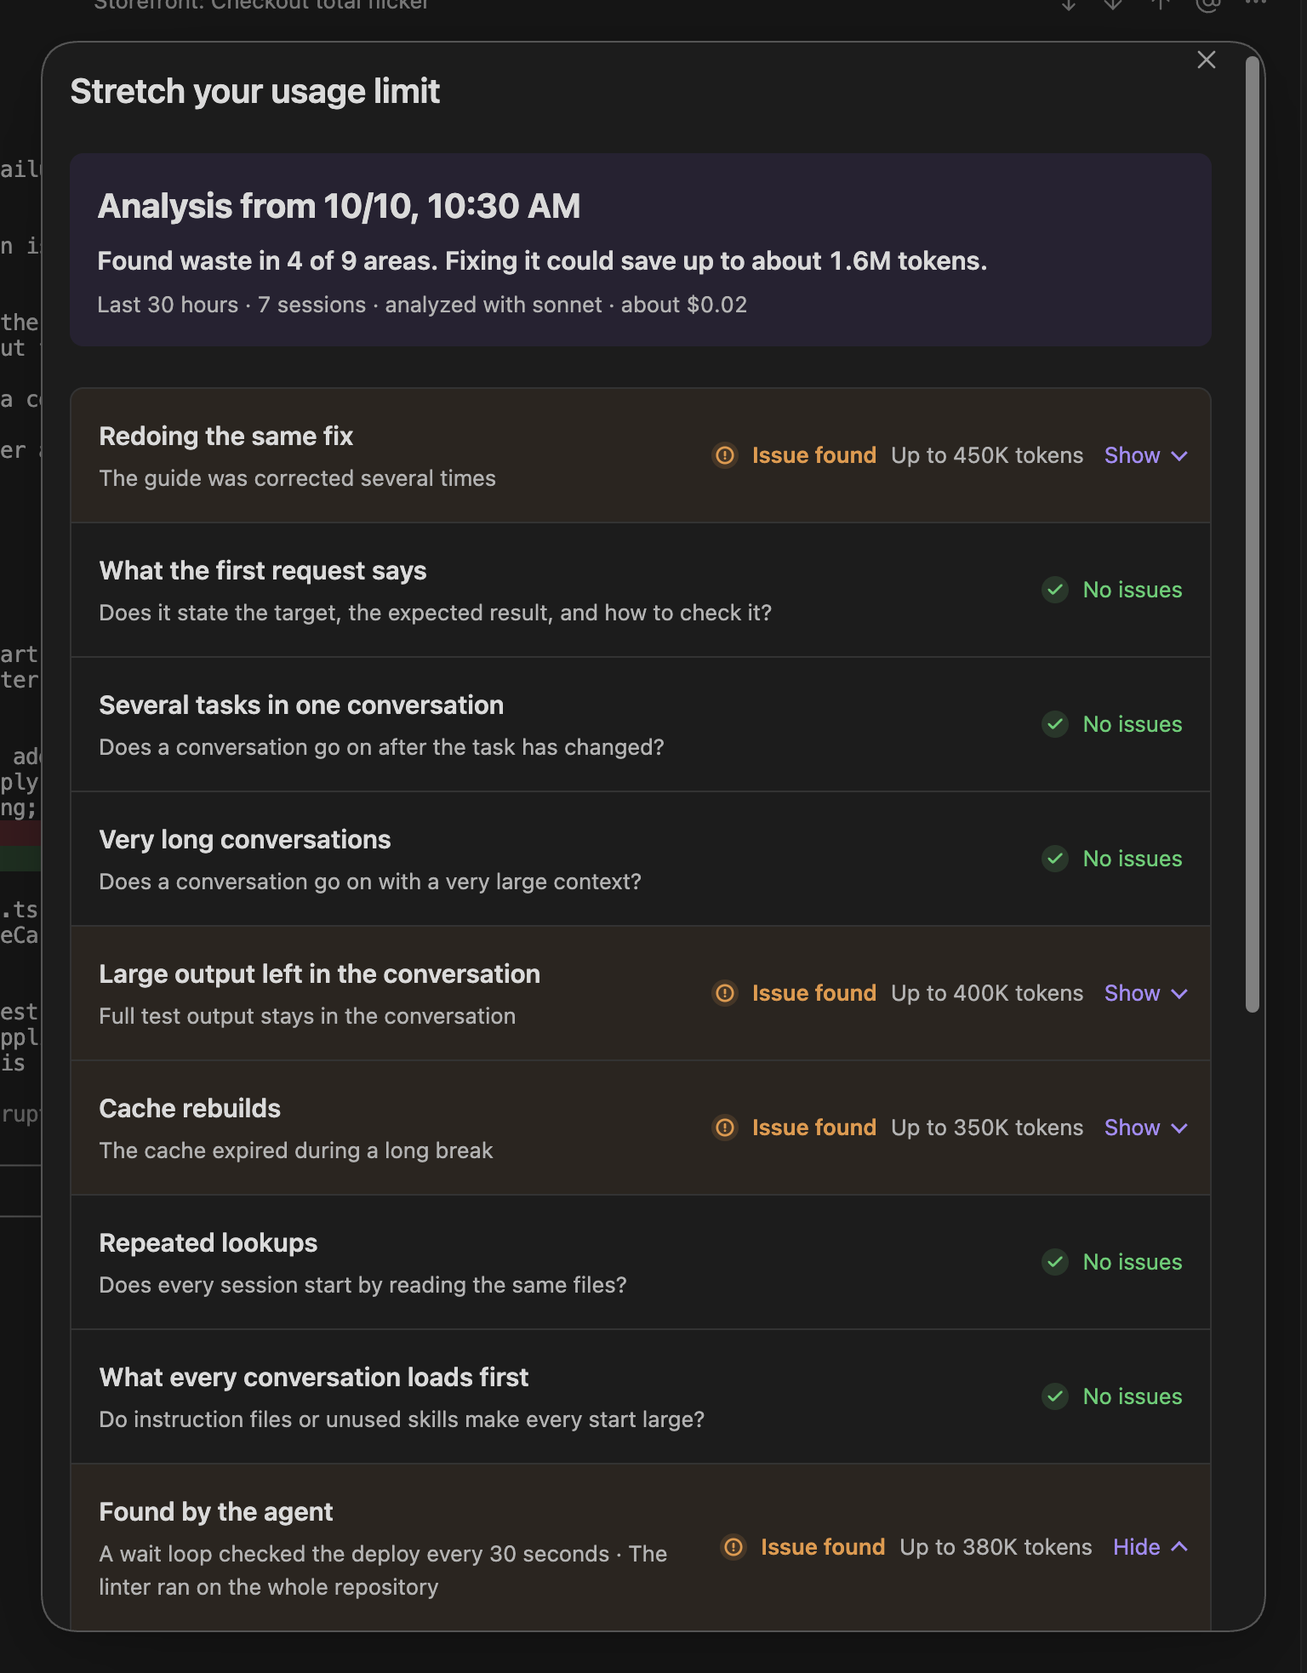
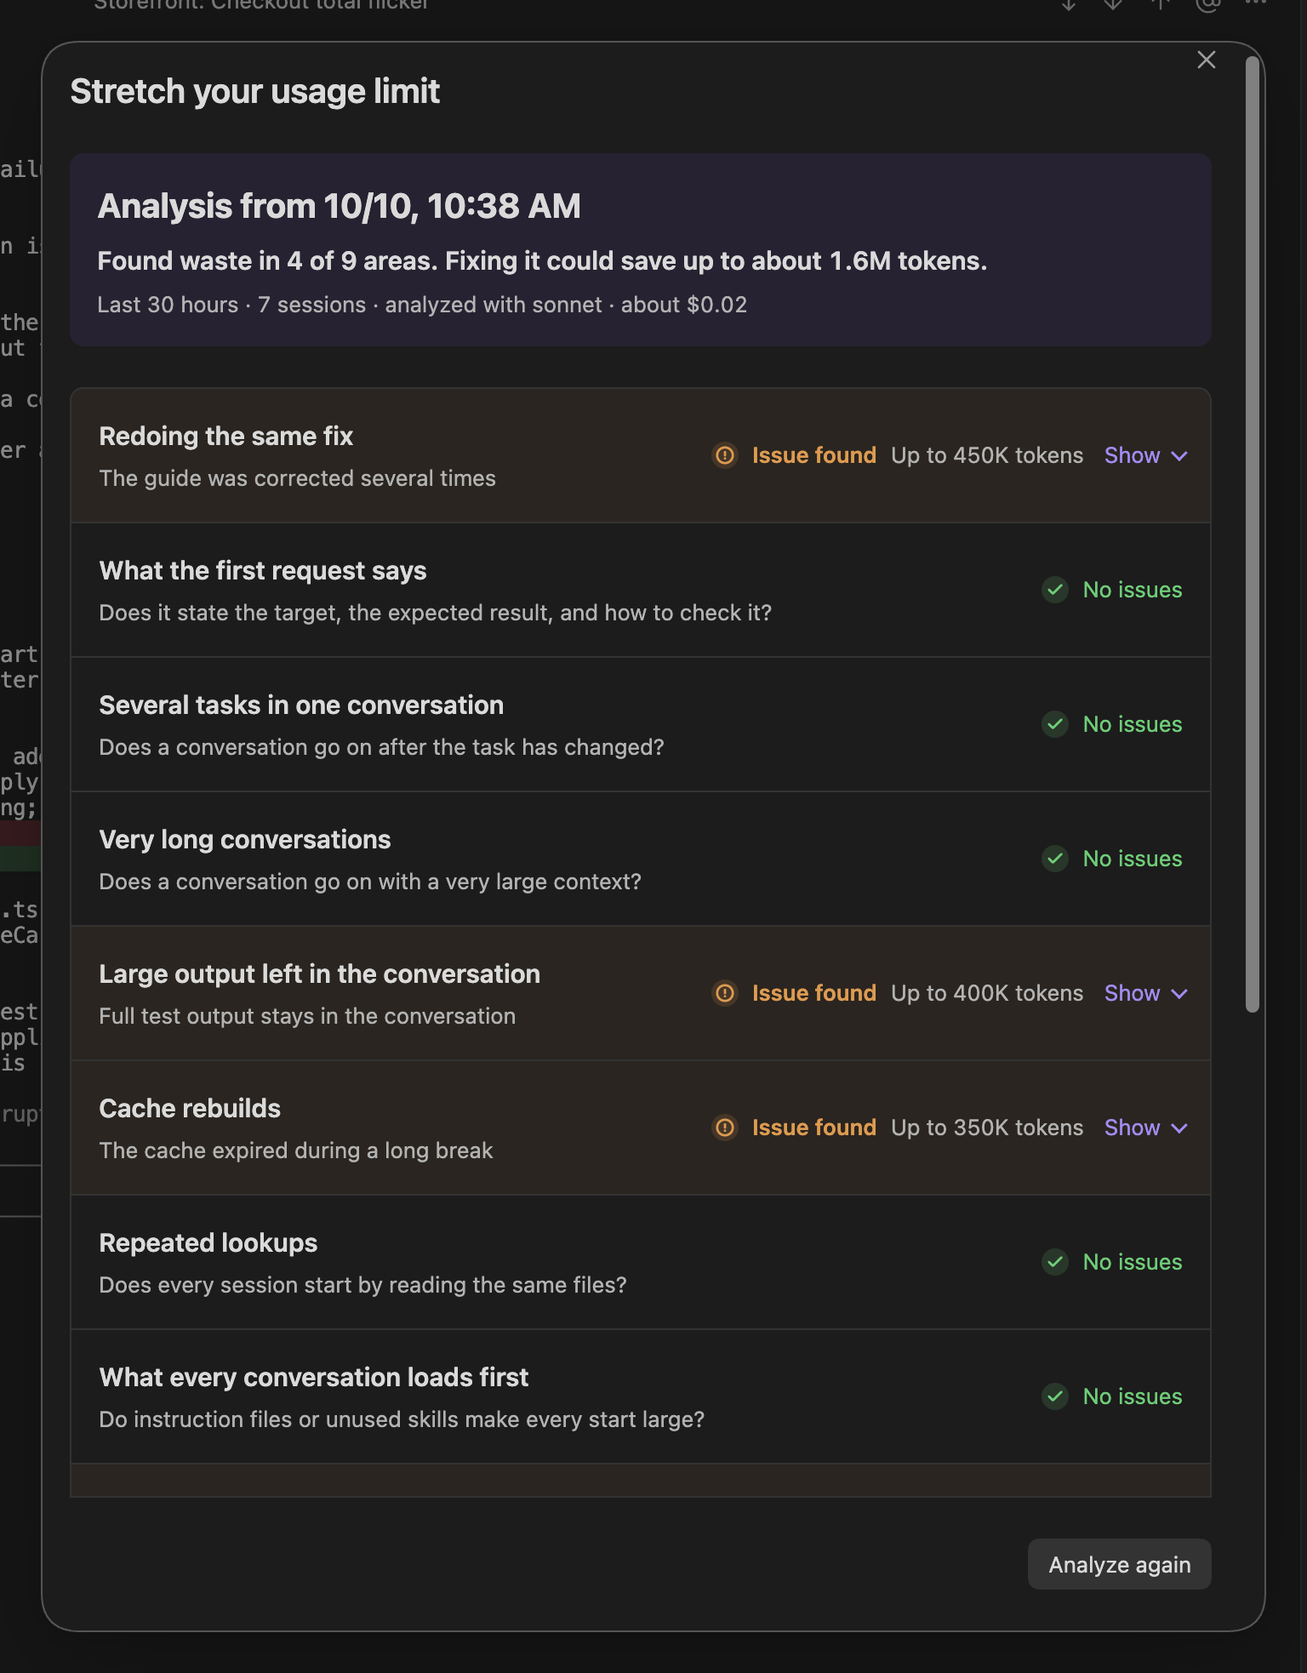
Keep the analysis buttons in view in a pinned foot
Every screen of the "Stretch your usage limit" dialog ends in a foot
pinned to the bottom of the dialog: a note on the left and the screen's
one button on the right (Analyze with its estimate, Stop analysis,
Analyze again). It covers the modal's bottom padding with the modal's
background and keeps its divider, so the rows scroll under it and the
button never falls below the fold. Details now sits above the foot.
The screenshot tool also shoots the empty and the analysing screen in a
narrow window.

Claude-Session: https://claude.ai/code/session_01TTRFsyBXjNS4ZGqFbyUZrn

Changed region(s): [[0.0625, 0.8998, 0.3438, 0.9619], [0.5312, 0.8998, 0.8125, 0.9308], [0.8125, 0.9308, 0.9062, 0.9619]]

diff --git a/plugin/styles.css b/plugin/styles.css
@@ -4349,21 +4349,6 @@ button.agent-sessions-efficiency-disc-head:focus-visible {
 	gap: var(--size-4-2);
 }
 
-/* The one action of the empty screen. */
-.agent-sessions-efficiency-go {
-	display: flex;
-	flex-direction: column;
-	align-items: center;
-	gap: var(--size-4-3);
-	padding-block: var(--size-4-2);
-}
-
-.agent-sessions-efficiency-go > button.mod-cta {
-	height: auto;
-	padding: var(--size-4-3) var(--size-4-8);
-	font-size: var(--font-ui-medium);
-}
-
 /* Progress while analysing. */
 .agent-sessions-efficiency-prog {
 	display: flex;
@@ -4486,15 +4471,22 @@ button.agent-sessions-efficiency-disc-head:focus-visible {
 	font-size: var(--font-ui-smaller);
 }
 
-/* The bottom line: a note on the left, one button on the right. */
+/* The bottom line of every screen: a note on the left, its one button on the right (Analyze, Stop
+   analysis, Analyze again). It is pinned to the bottom of the dialog, over the modal's own bottom
+   padding, so the button is always in view and the rows scroll under it. */
 .agent-sessions-efficiency-foot {
+	position: sticky;
+	bottom: calc(-1 * var(--size-4-6));
+	z-index: 1;
 	display: flex;
 	flex-wrap: wrap;
 	align-items: center;
 	justify-content: space-between;
 	gap: var(--size-4-3);
-	padding-top: var(--size-4-6);
+	margin-bottom: calc(-1 * var(--size-4-6));
+	padding-block: var(--size-4-6);
 	border-top: 1px solid var(--background-modifier-border);
+	background-color: var(--modal-background, var(--background-primary));
 }
 
 .agent-sessions-efficiency-foot.is-end {

diff --git a/plugin/src/ui/efficiency-modal.ts b/plugin/src/ui/efficiency-modal.ts
@@ -363,11 +363,6 @@ export class EfficiencyModal extends Modal {
 		if (!hasData(block)) {
 			return;
 		}
-		const go = pane.el.createDiv({ cls: `${CLS}-go` });
-		const analyze = go.createEl("button", { cls: "mod-cta", text: t("efficiency.analyze") });
-		analyze.disabled = !pane.plan || pane.plan.parts.length === 0;
-		analyze.addEventListener("click", () => void this.analyze(pane));
-		go.createDiv({ cls: `${CLS}-sub`, text: estimateText(pane.sent.requests) });
 		this.disclosure(pane, "details", t("efficiency.details"), t("efficiency.details.sub"), (body) => {
 			body.createDiv({ text: t("efficiency.details.lead") });
 			const local = pane.info.local;
@@ -402,6 +397,12 @@ export class EfficiencyModal extends Modal {
 				preview.createEl("pre", { text: prompts.join("\n\n----\n\n") });
 			}
 		});
+		// The action stays in view: the foot is pinned to the bottom of the dialog while the rows scroll.
+		const foot = pane.el.createDiv({ cls: `${CLS}-foot` });
+		foot.createDiv({ cls: `${CLS}-sub`, text: estimateText(pane.sent.requests) });
+		const analyze = foot.createEl("button", { cls: "mod-cta", text: t("efficiency.analyze") });
+		analyze.disabled = !pane.plan || pane.plan.parts.length === 0;
+		analyze.addEventListener("click", () => void this.analyze(pane));
 	}
 
 	// ---- Analyzing -------------------------------------------------------------------------------

diff --git a/docs/design.md b/docs/design.md
@@ -822,7 +822,7 @@ Has an agent read recent work for wasted tokens in nine checks, with evidence, a
 
 **Analysis** (`sessions/efficiency-checks.ts`, `ui/efficiency-modal.ts`). Only when the user presses Analyze in a pane. `planRequests` packs the digest's tasks, oldest first, into requests of at most 60,000 characters each (`analysisPrompt`: the checks' focus and English rules, the data between markers, the reply shape, the UI language for the text); a task too large on its own loses middle turns first. More than ten requests: prompts and replies are shortened (300 and 100 characters) and, if still more, the oldest tasks are left out ("Details" says how many). Each request carries `context`, the sessions and tasks of its period and the hints of those tasks (or sessions, for hints without a task), and is told which part of how many it is; the plugin's `ts` and `saving` are not sent. The requests go one after another on stdin to the pane's agent (`runHeadless`, five minutes each): `claude -p` with Sonnet or Opus, `codex exec -m <model>` (and `-c model_provider="…"` for a provider other than OpenAI), `opencode run --model <provider>/<model>`, in an empty folder, `~/.agents/sessions/efficiency-run/current/` (`inRunFolder`: created empty before the run, removed afterwards whatever happens, a second concurrent run refused; the fixed name leaves Claude Code a single empty project folder for it). A reply is `{"checks": {...}}`: per check `ok` or an `issue` (title, what happened, the cause `user_prompt`, `agent_behavior`, `config` or `habit`, the next step, `evidence` task ids, quotes, an action `agent`, `template` or `none`), and `found`, a list of up to three issues. A reply without a verdict for every judged check is asked for once more; when that one can't be read either, the analysis stops (`UnreadableReplyError`). Each issue is checked against its request (`readIssue`): evidence keeps only the ids of tasks sent in that request, and an issue left with none is dropped; quotes not copied from a prompt or reply of an evidence task are removed; sentences with a number that was not sent, and text that mentions `/clear`, are dropped, and an issue left with neither what happened nor a next step is dropped; an unknown cause becomes the check's own; an action the check does not offer becomes `none` (`agent` only when the check's `fix` hits in the evidence tasks name one change and its files, which the issue then keeps; `template` only for the two checks about requests). What an issue could save is the sum of its evidence tasks' `saving` for the check; anything the model writes about savings is ignored. The parts' outcomes are merged in code (`mergeOutcomes`), the same whatever order they finish in: a check has an issue when any part found one; its text is the issue that could save the most (the earlier part on a tie), its evidence and hits those of every part's issue, and its saving computed again over them; `found` keeps the three issues that could save the most. Stopping or a failure keeps nothing of the run. A finished run goes to `last-<pane>.json` (the earlier one to `prev-`, `version: 3`): per check its state and findings, the session of each cited task, the range, totals, session ids, the hits in the cited tasks, what was sent (tokens, sessions, requests) and the analysis's own usage (`headlessUsage`, summed over its requests); a file in another shape, including an earlier format, is not read.
 
-**The dialog** (`ui/efficiency-modal.ts`, `ui/efficiency-view.ts`). One tab per agent, named by the agent alone; for Codex and OpenCode the tab is the first pane (the provider used most) and the other panes are not shown. Per tab one of three screens: empty (the nine rows, the range covered, Analyze with an estimate of one to three minutes per request, and a folded "Details" with what is sent, how much and in how many requests, the model, the usage limit and the exact text of every request), analysing (every judged row "Analyzing", the not-applicable ones settled; one request: "Checking all 9 areas" with a moving bar; several: "Read M of N parts", the bar by parts, and a row turns to "Issue found" as soon as a part read so far found it; the elapsed time and the estimate; Stop), and result (the date, a summary, the rows, a folded "Data behind this analysis", the number of sessions started since, Analyze again) — the same screen for a fresh and a saved result. A row with an issue opens in place; the last row lists each of its issues with its own title and saving.
+**The dialog** (`ui/efficiency-modal.ts`, `ui/efficiency-view.ts`). One tab per agent, named by the agent alone; for Codex and OpenCode the tab is the first pane (the provider used most) and the other panes are not shown. Per tab one of three screens, each ending in a foot pinned to the bottom of the dialog (a note on the left, the screen's one button on the right; the rows scroll under it, so the button is always in view): empty (the range covered, the nine rows, a folded "Details" with what is sent, how much and in how many requests, the model, the usage limit and the exact text of every request, and the foot with an estimate of one to three minutes per request and Analyze), analysing (every judged row "Analyzing", the not-applicable ones settled; one request: "Checking all 9 areas" with a moving bar; several: "Read M of N parts", the bar by parts, and a row turns to "Issue found" as soon as a part read so far found it; the elapsed time and the estimate; Stop), and result (the date, a summary, the rows, a folded "Data behind this analysis", the number of sessions started since, Analyze again) — the same screen for a fresh and a saved result. A row with an issue opens in place; the last row lists each of its issues with its own title and saving.
 
 **Fixing.** An issue's "Ask the agent to fix it" shows the agent, the new session's name, the files and the request (editable), then calls `newSession(name, agent, {prompt, permissionMode: "plan", remember: false})`: a session in the vault, in plan mode or the agent's nearest (Claude Code `--permission-mode plan` before `--`; Codex `--sandbox read-only --ask-for-approval on-request` before `--`, since it has no flag to start in Plan mode; OpenCode `--agent plan` before `--prompt`), that shows a diff and waits for approval. OpenCode on Windows doesn't start with a first message over 200 characters on its command line (its TUI stays at "Finishing startup…" and exits), so there the message is pasted and submitted once its footer (`ctrl+p commands`) is on screen (`typesFirstMessage`, `opencodeReady`); if that doesn't happen within 90 seconds the message goes to the clipboard with a notice. The request's third step says how each agent goes on to write (Codex asks for approval; OpenCode needs a switch to the build agent). The request lists the files that may change, the change kind's rule, the prohibitions, how to undo, and that the change applies to new conversations.
 
@@ -915,7 +915,7 @@ Every dialog of the plugin is marked with `markDialog` (`ui/dialog-header.ts`, c
 | 16 px | `--size-4-4` | the inset of every bordered or tinted block (rows, disclosures, summaries, panels, cards), the gap between the parts of an opened block, the modal's own padding at the sides |
 | 24 px | `--size-4-6` | between the blocks of a dialog, the title above the content, each side of the divider above the button row, the modal's own padding above and below |
 
-The content (`.modal-content`, and each view of the organize dialog) is one column of blocks with a 24 px gap; the children's own margins are removed, so no gap is doubled. Fields (Obsidian `Setting` rows) have no dividers between them; a label beside its control is centred on it, and a label above its field (`agent-sessions-wide-setting`) sits 8 px above it. The button row that ends a dialog is made with `dialogFooter`: one divider above it, 24 px on each side. Corners of blocks are `--radius-m`. A dialog with its own header (Session analytics) uses the modal's padding as its inset and hides Obsidian's empty header, so no padding is added on top of the modal's. The token efficiency dialog keeps its scrollbar gutter (`scrollbar-gutter: stable`), every check row has a second line (the issues' titles, "Reading", or what the check looks for), so the rows are of one height, and below 480 px a row's state wraps under its text.
+The content (`.modal-content`, and each view of the organize dialog) is one column of blocks with a 24 px gap; the children's own margins are removed, so no gap is doubled. Fields (Obsidian `Setting` rows) have no dividers between them; a label beside its control is centred on it, and a label above its field (`agent-sessions-wide-setting`) sits 8 px above it. The button row that ends a dialog is made with `dialogFooter`: one divider above it, 24 px on each side. Corners of blocks are `--radius-m`. A dialog with its own header (Session analytics) uses the modal's padding as its inset and hides Obsidian's empty header, so no padding is added on top of the modal's. The token efficiency dialog keeps its scrollbar gutter (`scrollbar-gutter: stable`), pins its foot (`position: sticky`, over the modal's bottom padding, with the modal's background and the divider) so the screen's button never scrolls out of view, every check row has a second line (the issues' titles, "Reading", or what the check looks for), so the rows are of one height, and below 480 px a row's state wraps under its text.
 
 ## 17. i18n
 

diff --git a/docs/requirements.md b/docs/requirements.md
@@ -104,7 +104,7 @@ Agent CLIs other than Claude Code, Codex, and OpenCode (agy, …) are a future d
   - R-S17.23 Claude Code, Codex and OpenCode conversations are analysed alike: Codex and OpenCode split their conversations by provider and the dialog analyses the provider each used most (one tab per agent); detectors whose signal an agent does not record (E04 for OpenCode) do not run for it.
   - R-S17.22 No statistic depends on the words a person wrote: the same conversation in another language gives the same tasks, hits and impact. Only record formats the agents write and the masking patterns are matched.
 - R-S18 A dialog opened from a menu item, a command or a button is titled with that item's label, word for word — the same message in every language, so the two cannot differ. A trailing ellipsis on a menu item ("Move to category…") is not part of the title. A per-session dialog shows the session on a second line under the title. Several items that open one dialog share one label (the side panel's and the manager's `⋯` menus and the command palette all say "Stretch your usage limit…"). A confirmation raised by changing a control (a dropdown, a toggle) has no title, only its message. The welcome guide, which also opens by itself, is titled with its own name. A unit test (`plugin/test/ui/dialog-title.test.ts`) lists every such dialog and fails when a title is set from any other message.
-- R-S19 Every dialog spaces its content on one scale of Obsidian's spacing variables (4, 8, 12, 16, 24 px; `design.md` §16.2), with room to breathe vertically: 24 px above and below the content and between its blocks, 24 px on each side of the divider above the closing button row and none between fields, the title 8 px above the session line, a label 8 px above its field, 16 px inside every bordered or tinted block (rows, summaries, panels, cards) and between its parts, and no padding of the plugin's own added to the modal's. The "Stretch your usage limit" dialog keeps its width when its content starts to scroll, every check row has a second line (its issues' titles, "Reading", or what the check looks for) so the rows are of one height, and at about 400 px wide a row's state moves under its text instead of squeezing it.
+- R-S19 Every dialog spaces its content on one scale of Obsidian's spacing variables (4, 8, 12, 16, 24 px; `design.md` §16.2), with room to breathe vertically: 24 px above and below the content and between its blocks, 24 px on each side of the divider above the closing button row and none between fields, the title 8 px above the session line, a label 8 px above its field, 16 px inside every bordered or tinted block (rows, summaries, panels, cards) and between its parts, and no padding of the plugin's own added to the modal's. The "Stretch your usage limit" dialog keeps its width when its content starts to scroll, keeps each screen's button (Analyze, Stop analysis, Analyze again) in view in a bar pinned to its bottom while the rows scroll under it, every check row has a second line (its issues' titles, "Reading", or what the check looks for) so the rows are of one height, and at about 400 px wide a row's state moves under its text instead of squeezing it.
 
 ### R-D Persistence and restore
 

diff --git a/tools/screenshots/README.md b/tools/screenshots/README.md
@@ -41,7 +41,7 @@ SCRATCH=$(mktemp -d)
 node tools/screenshots/shoot.mjs --plugin-js $SCRATCH/main.js   # add --keep to leave the sandbox behind
 ```
 
-`--efficiency` shoots only the token efficiency dialog, in the dark and the light theme: `efficiency-empty-<theme>.png` (not analysed yet), `efficiency-analyzing-<theme>.png` (one request, every check being analysed), `efficiency-result-<theme>.png` (the result just made, the agent's own issues open), `efficiency-previous-<theme>.png` (the saved result opened again a day later) `efficiency-analyzing-split-<theme>.png` (a larger range sent in several requests, after the first one is read), `efficiency-issue-<theme>.png` (the first issue open), `efficiency-basis-<theme>.png` (the data behind the analysis open), `efficiency-fix-<theme>.png` (the dialog before a fixing session) and `efficiency-narrow-<theme>.png` (a window about 440 px wide). `--dialogs` shoots the other dialogs the same way: rename, move to category, change model, end session, suggest name and category, session analytics, a narrow move to category, new session and organize (`dialog-<name>-<theme>.png`). `--out DIR` writes the README set to DIR (DIR/ja for Japanese) instead of `docs/images/`; use it for images the README does not show:
+`--efficiency` shoots only the token efficiency dialog, in the dark and the light theme: `efficiency-empty-<theme>.png` (not analysed yet), `efficiency-analyzing-<theme>.png` (one request, every check being analysed), `efficiency-result-<theme>.png` (the result just made, the agent's own issues open), `efficiency-previous-<theme>.png` (the saved result opened again a day later) `efficiency-analyzing-split-<theme>.png` (a larger range sent in several requests, after the first one is read), `efficiency-issue-<theme>.png` (the first issue open), `efficiency-basis-<theme>.png` (the data behind the analysis open), `efficiency-fix-<theme>.png` (the dialog before a fixing session) and `efficiency-narrow-<theme>.png` (the result in a window about 440 px wide), `efficiency-empty-narrow-<theme>.png` and `efficiency-analyzing-narrow-<theme>.png` (the empty and the analysing screen at that width). `--dialogs` shoots the other dialogs the same way: rename, move to category, change model, end session, suggest name and category, session analytics, a narrow move to category, new session and organize (`dialog-<name>-<theme>.png`). `--out DIR` writes the README set to DIR (DIR/ja for Japanese) instead of `docs/images/`; use it for images the README does not show:
 
 ```sh
 node tools/screenshots/shoot.mjs --efficiency --out "$SCRATCH/shots" --plugin-js $SCRATCH/main.js

diff --git a/docs/usage.md b/docs/usage.md
@@ -309,7 +309,7 @@ For when your usage limit runs out too fast: has an agent read your recent work 
 
 1. Open the ⋯ menu of the side panel or the Session manager and choose **Stretch your usage limit…**, or run **Stretch your usage limit…** from the command palette.
 2. The dialog reads the records on this machine (nothing is sent) and lists the nine checks, with the range they cover ("Covers 42 sessions from the last 7 days (28.6M tokens)."). Codex and OpenCode are analysed for the provider their conversations used most.
-3. Press **Analyze**. **Details**, below it, says what is sent, how much and in how many requests, to which model, and which usage limit it counts toward; **Show what is sent** in it shows the exact text of every request.
+3. Press **Analyze**, at the bottom of the dialog (it stays in view while the list scrolls). **Details**, above it, says what is sent, how much and in how many requests, to which model, and which usage limit it counts toward; **Show what is sent** in it shows the exact text of every request.
 4. Every check shows **Analyzing** until the agent's reply is read ("Checking all 9 areas"). A range too large for one request is sent in several, by period ("Read 2 of 5 parts"); a check turns to **Issue found** as soon as one part finds it. The time so far and an estimate are shown; a spinner marks the tab being analysed. **Stop analysis**, or closing the dialog, stops it; nothing of that run is kept.
 5. In the result, click a row marked **Issue found** to open it. On an issue a file or setting can fix, press **Ask the agent to fix it**, check or edit the request, and press **Start**.
 
